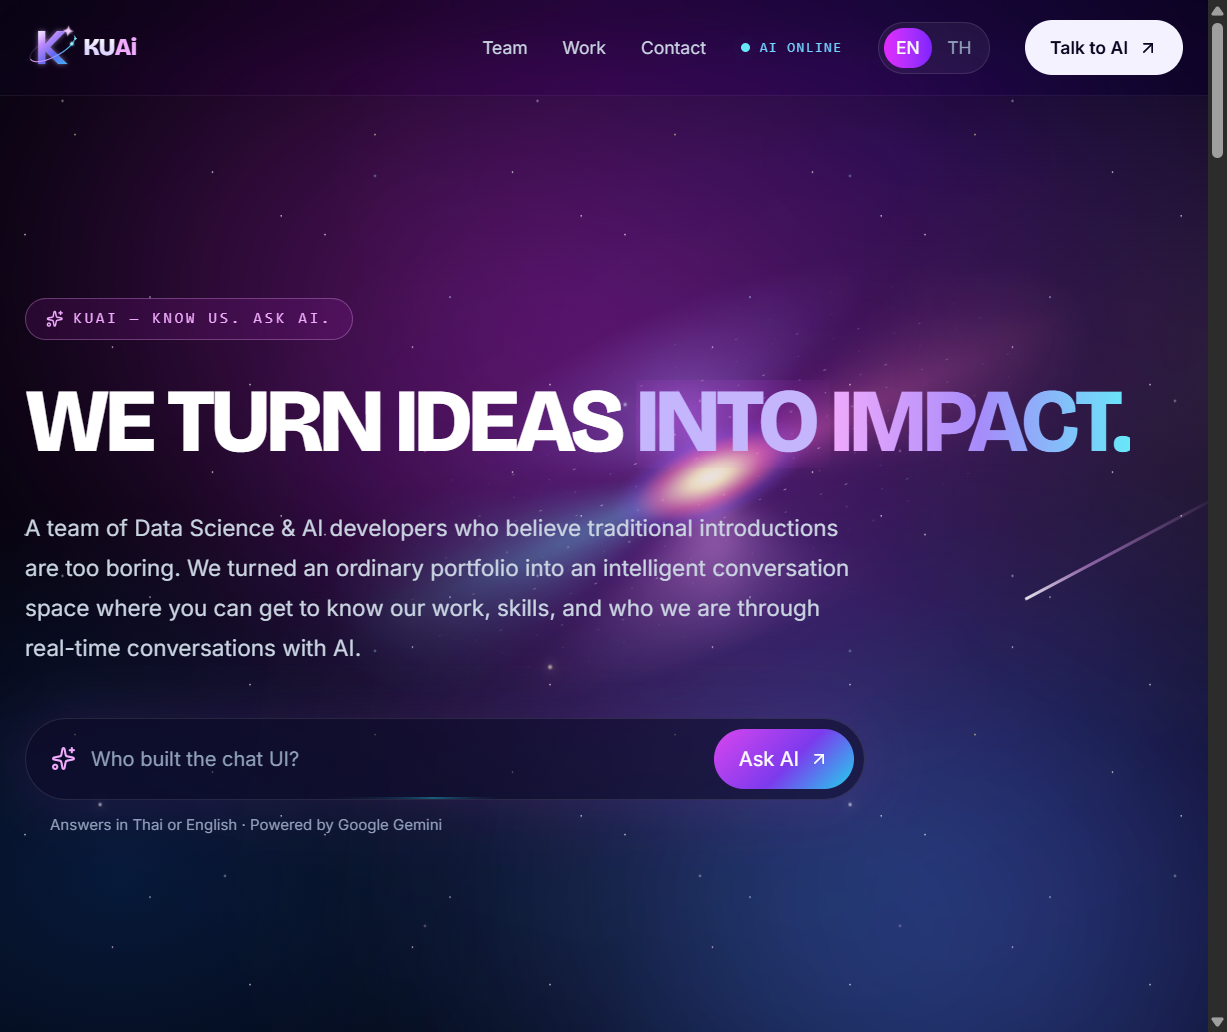
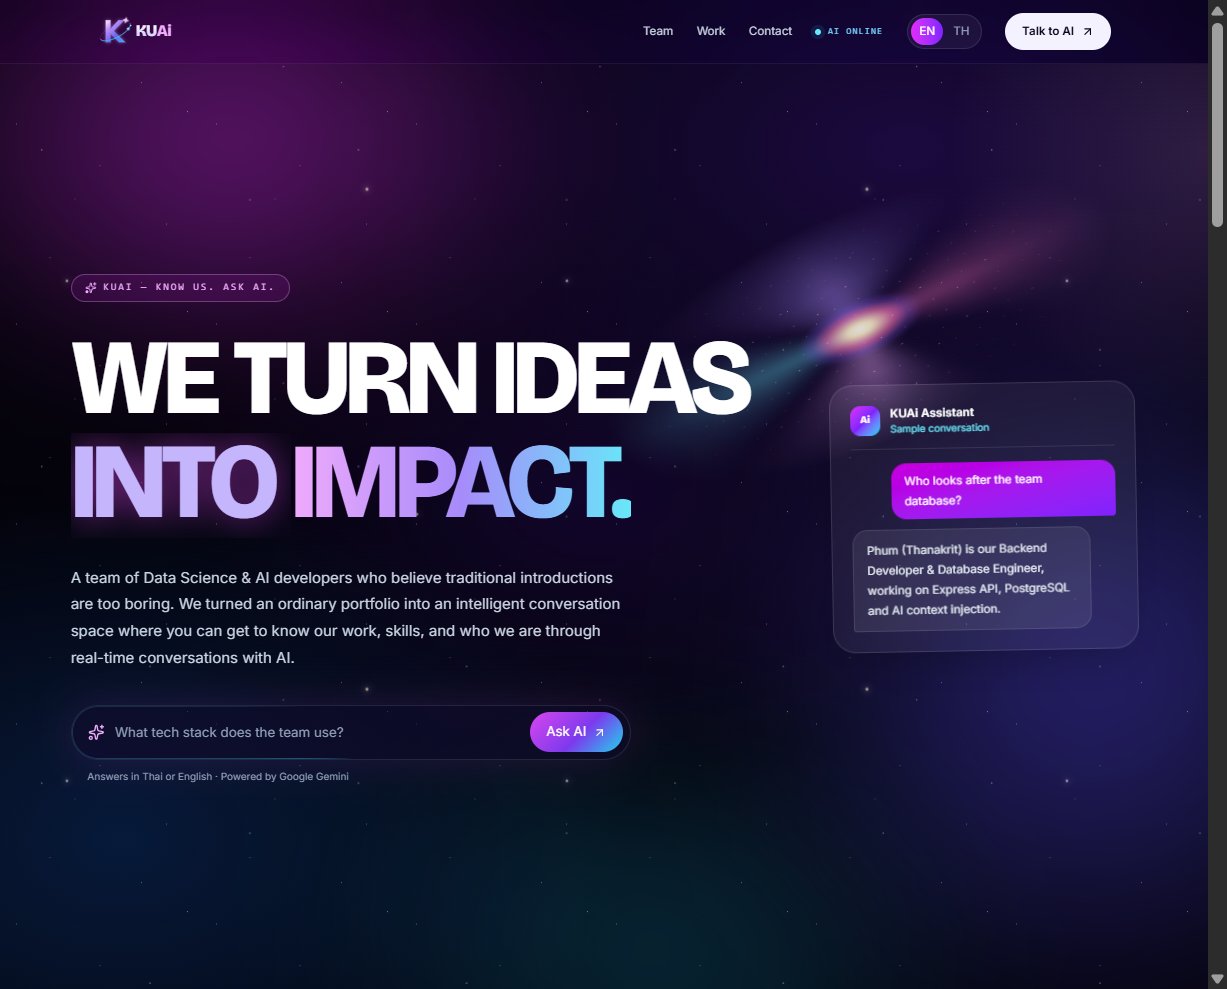
feat: add Smart Lab Booking screenshot

diff --git a/backend/src/portfolioData.ts b/backend/src/portfolioData.ts
@@ -406,7 +406,7 @@ export const portfolioData: PortfolioData = {
             th: 'พัฒนาระบบจองแบบเรียลไทม์บนเว็บสำหรับห้องปฏิบัติการ AIE ผสานการตรวจจับวัตถุจากกล้องเพื่อติดตามการใช้ที่นั่งและสถานะการจองแบบเรียลไทม์ พร้อมออกแบบ UX/UI เพื่อให้จองออนไลน์ได้อย่างราบรื่น',
           },
           technologies: ['UX/UI Design', 'Computer Vision'],
-          coverImage: undefined,
+          coverImage: '/images/projects/member-1/smart-lab-booking.png',
           isPlaceholder: false,
           isHighlighted: true,
         },
